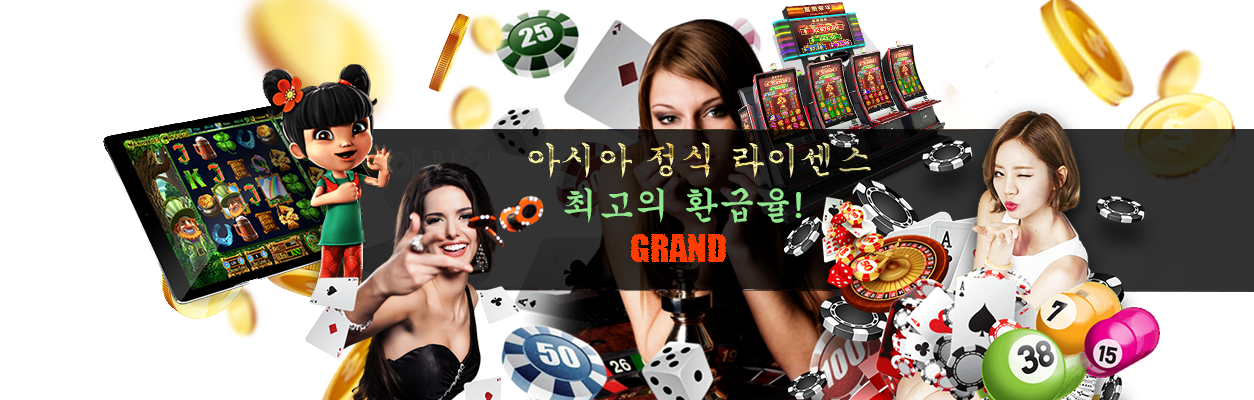
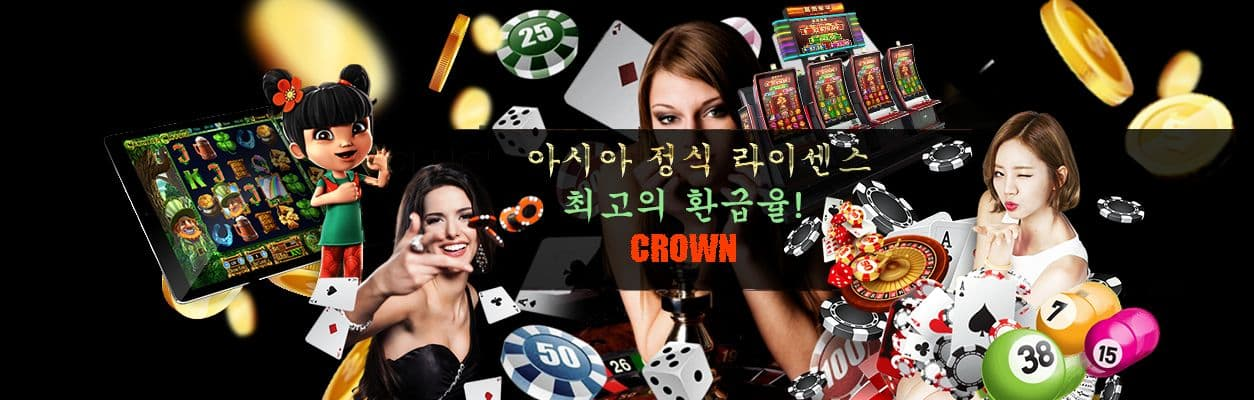
update grand design

diff --git a/resources/views/frontend/grand/layouts/app.blade.php b/resources/views/frontend/grand/layouts/app.blade.php
@@ -427,7 +427,7 @@
           </div>
           <div id="footer">
             <img src="/frontend/grand/images/partner.png" /><br /><br />Copyright ⓒ
-            2020~2021 그랜드 SLOT All rights reserved.
+            2020~2021 크라운 SLOT All rights reserved.
           </div>
          </div>
          <div>
